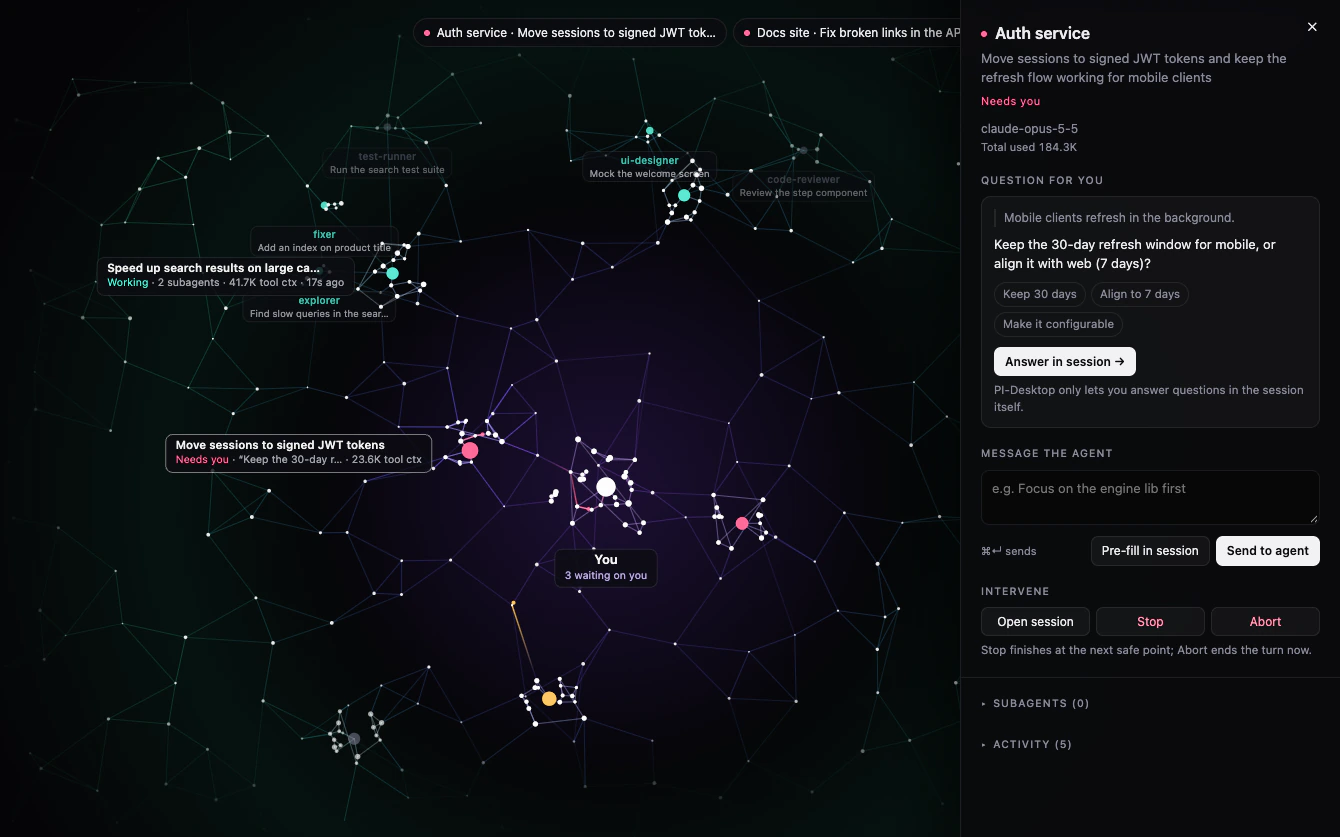
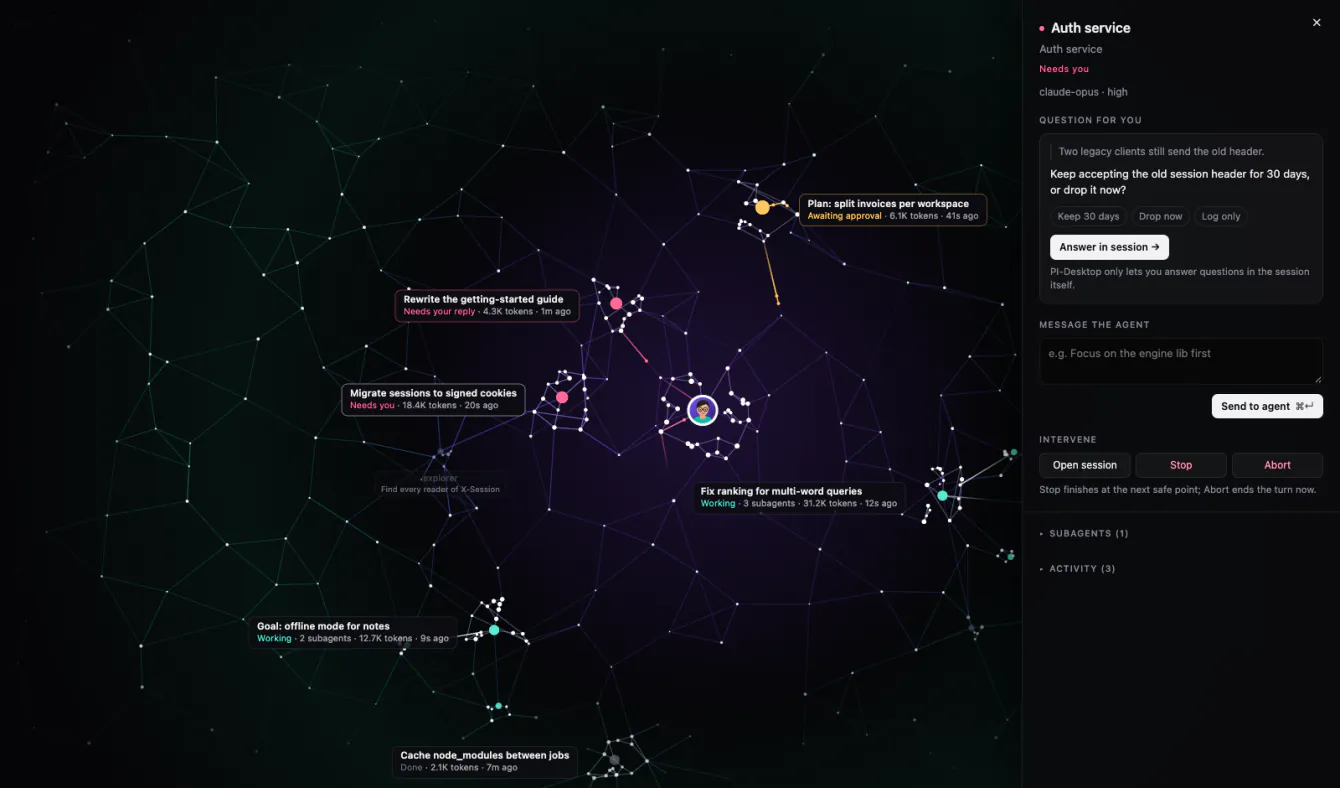
docs(readme): refresh the demo image with your picture and opaque tooltips

diff --git a/README.md b/README.md
@@ -2,7 +2,7 @@
 
 A live neural map of your PI-Desktop agents and their subagents, shown in the session's work panel.
 
-![Neural Radar: You at the centre with 3 agents waiting on you; an agent asking a question (its drawer open on the right, with the question and its answers), an agent waiting for your reply and a plan awaiting approval; a working agent with explorer, fixer and test-runner subagents and a working goal with ui-designer and code-reviewer; a finished agent fading at the edge; tooltips showing what each agent works on now, its state, the tool context and how long ago](docs/neural-radar.webp)
+![Neural Radar: your circle with your picture at the centre; two agents that need you, one asking a question (its drawer open on the right, with the question and its answers) and one waiting for your reply, both with opaque tooltips, and a plan awaiting approval; a working agent with 3 subagents and a working goal with 2; the explorer subagent of the open agent, done; a finished agent at the edge; tooltips showing what each agent works on now, its state, running subagents, tool context and how long ago](docs/neural-radar.webp)
 
 - **You** sit at the centre, as a circle with your picture (see [Your picture](#your-picture)).
   Each agent (a session) is a cluster of neurons; its subagents are the small clusters behind it.
